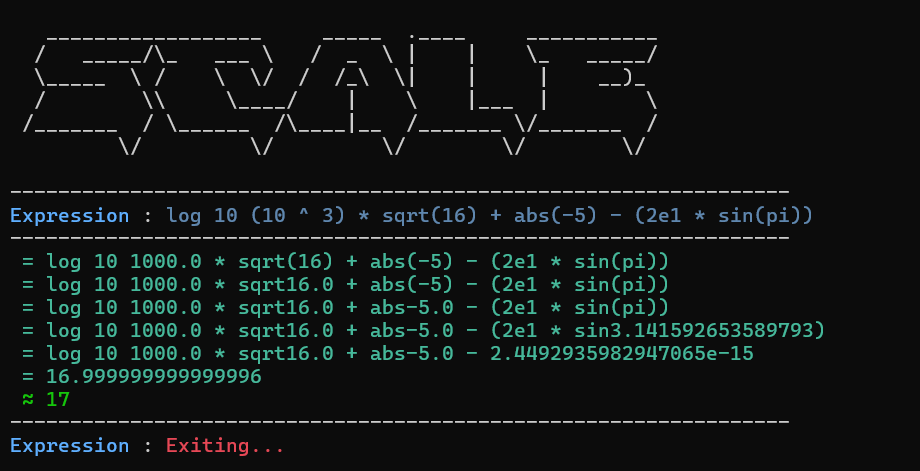
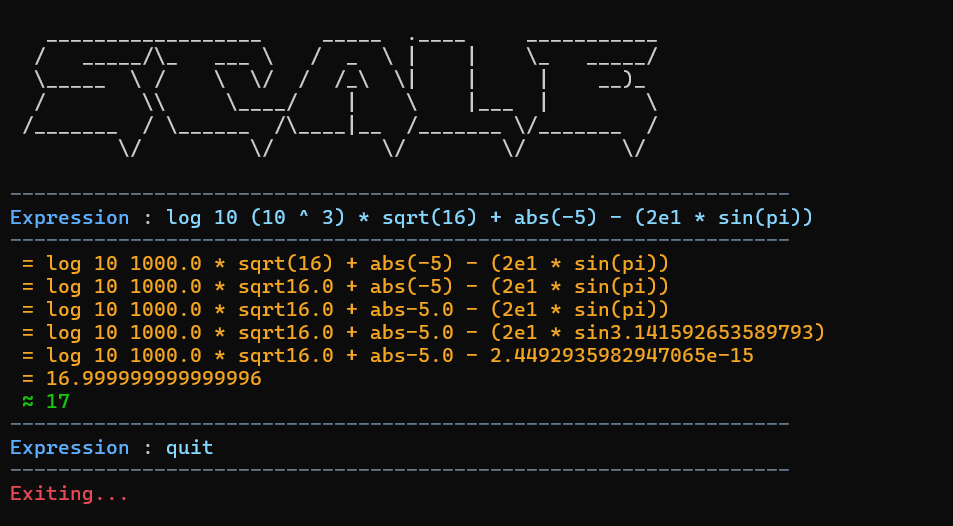
Refactor color constants and enhance main loop output formatting

Changed region(s): [[0.0, 0.3567, 0.913, 0.862], [0.0304, 0.0594, 0.7, 0.327], [0.0, 0.8917, 0.8522, 0.9809]]

diff --git a/main.py b/main.py
@@ -14,9 +14,11 @@ NAME = r"""
 GREEN = "\033[92m"
 RESET = "\033[0m"
 RED = "\033[91m"
-GREEN2 = "\033[38;2;70;185;155m"
-BLUE1 = "\033[38;5;67m"
+GOLD = "\033[38;2;245;166;35m"
+BLUE1 = "\033[38;5;117m"
 BLUE2 = "\033[38;5;75m"
+GREY = "\033[38;2;100;120;140m"
+
 action = {
     "+": operator.add,
     "-": operator.sub,
@@ -191,21 +193,22 @@ def format_display(val: float) -> str:
 
 def main():
     print(NAME)
-    print("-" * 65)
+    print(f"{GREY}-{RESET}" * 65)
 
     while True:
         try:
             expression = input(f"{BLUE2}Expression{RESET} : {BLUE1}").strip()
+            print(RESET, end="")
         except (KeyboardInterrupt, EOFError):
-            print(f"{RED}Exiting...{RESET}")
-            break
-        print(RESET, end="")
+            print(f"{BLUE1}quit{RESET}")
+            expression = "quit"
 
         if expression.lower() in ("quit", "exit", "q"):
+            print(f"{GREY}-{RESET}" * 65)
             print(f"{RED}Exiting...{RESET}")
             break
 
-        print("-" * 65)
+        print(f"{GREY}-{RESET}" * 65)
         try:
             while ("(" in expression) or (")" in expression):
                 sub_expression, idx_start, idx_end = peeler(expression)
@@ -215,14 +218,14 @@ def main():
                     + sub_expression_m
                     + expression[idx_end + 1 :]
                 )
-                print(f"{GREEN2} = {expression}{RESET}")
+                print(f"{GOLD} = {expression}{RESET}")
             ans = evaluate_rpn(rpn_creator(expression))
-            print(f"{GREEN2} = {ans}{RESET}")
+            print(f"{GOLD} = {ans}{RESET}")
             formatted_ans = format_display(float(ans))
             print(f"{GREEN} ≈ {formatted_ans}{RESET}")
         except Exception as e:
             print(f"{RED}Error : {e}{RESET}")
-        print("-" * 65)
+        print(f"{GREY}-{RESET}" * 65)
 
 
 if __name__ == "__main__":
